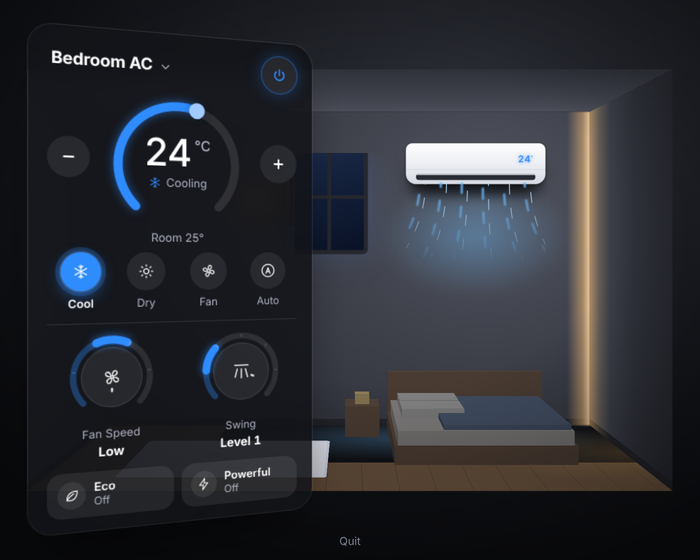
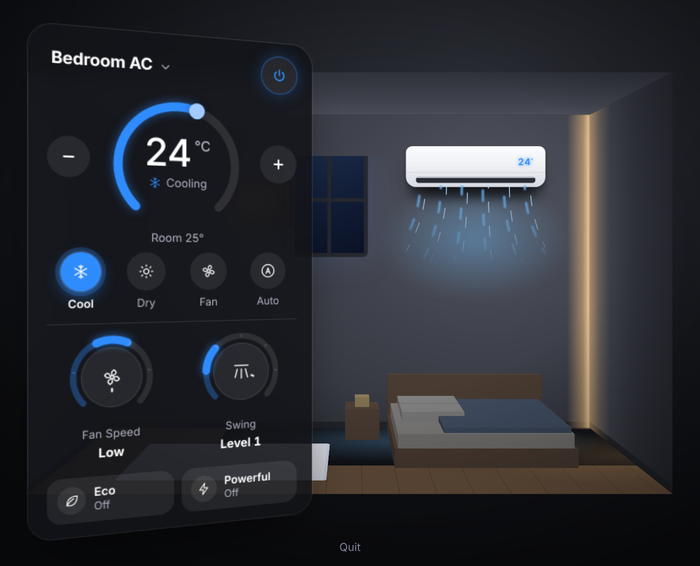
Refresh the screenshots to match the current interface
The README images were captured before the brand capability layer landed, so
they showed a fixed-height window and an older control layout.

- Re-rendered all three themes against the Panasonic MirAIe capability set,
  which is what the documented primary brand actually shows: Eco and Powerful
  presets, no display toggle, and the window sized to those controls.
- Added the home overview that appears while the units are off, since the
  README describes that view but never showed it.
- Gave every image descriptive alt text.

The screenshots are renders of this application's own interface, with
simulated device readings; no third-party assets are included.

Claude-Session: https://claude.ai/code/session_01TSzzxFf138iEZ5KL74SJBf

diff --git a/README.md b/README.md
@@ -13,7 +13,12 @@ its own to whatever that unit can do.
 
 | Morning | Evening | Night |
 |---|---|---|
-| ![Morning](docs/theme-morning.png) | ![Evening](docs/theme-evening.png) | ![Night](docs/theme-night.png) |
+| ![The panel in the morning theme](docs/theme-morning.png) | ![The panel in the evening theme](docs/theme-evening.png) | ![The panel in the night theme](docs/theme-night.png) |
+
+With the air conditioner off, the panel shows the whole home instead, and you
+pick a room to step into:
+
+![The home overview shown while the units are off](docs/room-overview.png)
 
 ---
 
